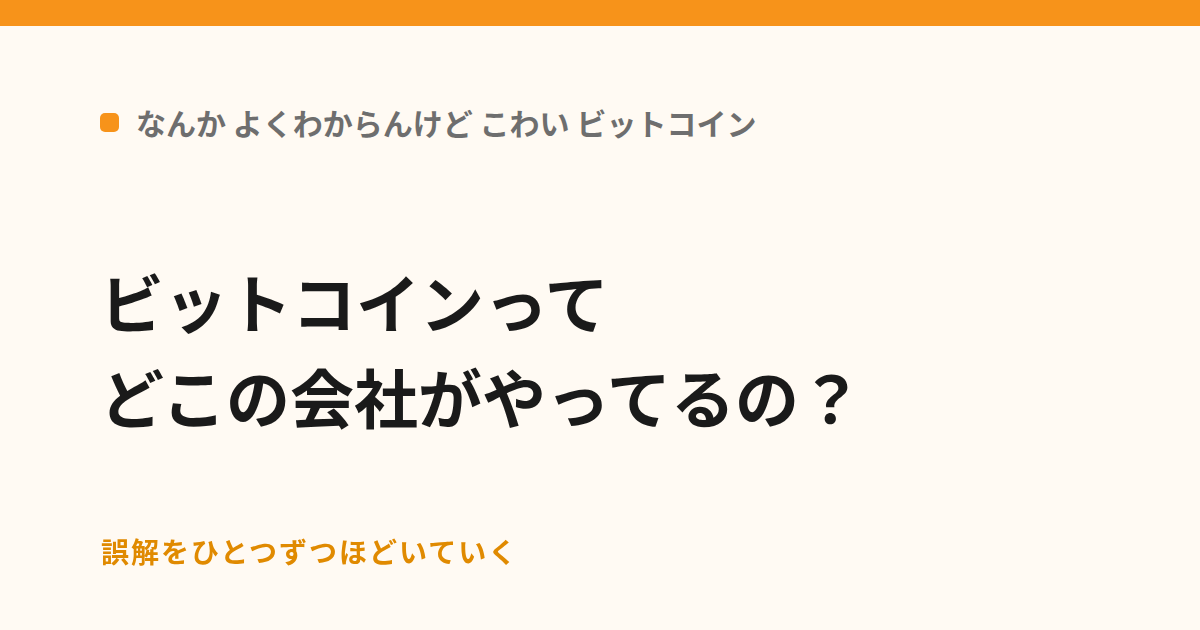
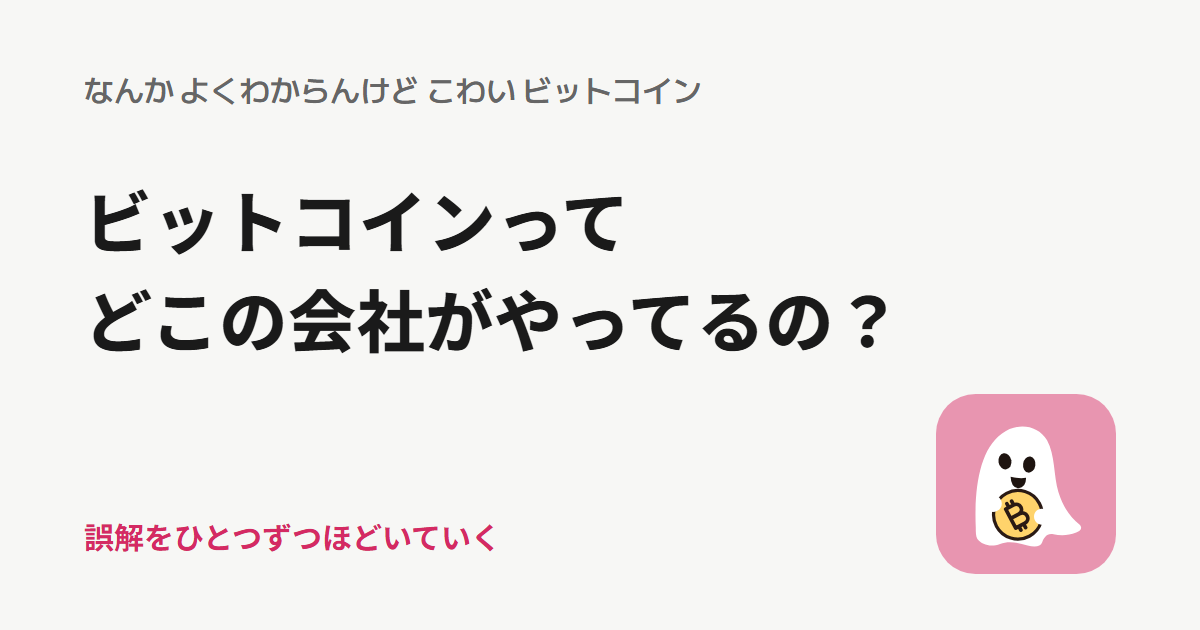
サイトアイコン・ファビコン・OGP をおばけのデザインに刷新
- ₿ コインを抱えるおばけのアイコンを作り、favicon.svg / favicon.ico / PWA / apple-touch-icon を作り直す
- トップと各話の OGP 画像を新しい配色とアイコンで作り直す
- 画像をまとめて生成する scripts/generate-images.js（npm run images）を追加
- og:locale、og:image の寸法・alt、twitter:image を追加

diff --git a/scripts/generate-images.js b/scripts/generate-images.js
@@ -1,0 +1,211 @@
+// サイトアイコン・ファビコン・PWA アイコン・OGP 画像をまとめて生成する。
+// デザインを変えたときだけ手動で実行し、生成物をコミットする（ビルドには含めない）。
+//   node scripts/generate-images.js
+// OGP の本文は端末にインストールされた Noto Sans JP で描くので、事前に入れておくこと。
+import { chromium } from 'playwright';
+import { mkdir, readFile, writeFile } from 'node:fs/promises';
+import path from 'node:path';
+import { fileURLToPath } from 'node:url';
+import { HOME, LAYERS, SITE_TITLE } from '../src/lib/site.js';
+
+const ROOT = path.resolve(path.dirname(fileURLToPath(import.meta.url)), '..');
+const STATIC = path.join(ROOT, 'static');
+
+const COLORS = {
+  tile: '#e895b0',
+  ghost: '#fff',
+  face: '#1e1410',
+  coin: '#ffd36b',
+  coinInk: '#2a1a14',
+  bg: '#f7f7f5',
+  ink: '#1a1a1a',
+  sub: '#666',
+  primary: '#fe3e7e',
+  accentText: '#d42a63'
+};
+
+const GHOST_BODY =
+  'M22 78C21 55 24 30 38 20 47 13 60 14 66 24 71 33 70 46 73 56 76 66 81 72 86 76 88 78 87 80 84 81 79 83 74 83 70 82 66 81 64 84 63 87 62 90 58 90 54 89 48 87 42 86 37 88 32 90 26 89 23 85 22 83 22 81 22 78Z';
+const HAND_LEFT = 'M30.5 63.5C34 61 38.5 62.5 39 66.5 39.5 70.5 35.5 73 32 72 28.5 71 27.5 66 30.5 63.5Z';
+const HAND_RIGHT = 'M65.5 63.5C62 61 57.5 62.5 57 66.5 56.5 70.5 60.5 73 64 72 67.5 71 68.5 66 65.5 63.5Z';
+// ₿ をフォントに頼らず線で描く（コインの中心を原点にした座標）
+const BITCOIN_SIGN =
+  'M-4.6-6.6V6.6M-4.6-6.6H1A3.25 3.25 0 0 1 1 -.1H-4.6M-4.6-.1H1.8A3.35 3.35 0 0 1 1.8 6.6H-4.6M-2.4-9.2V-6.6M.9-9.2V-6.6M-2.4 6.6V9.2M.9 6.6V9.2';
+
+// おばけ本体（100×100 の座標）
+function ghost({ simple = false } = {}) {
+  if (simple) {
+    // 16px 用：₿ と手と口を省き、目とコインを大きくする
+    return `<g transform="translate(1 2)">
+  <path d="${GHOST_BODY}" fill="${COLORS.ghost}"/>
+  <ellipse cx="40" cy="37" rx="5.5" ry="6.5" fill="${COLORS.face}"/>
+  <ellipse cx="55" cy="39" rx="5.5" ry="6.5" fill="${COLORS.face}"/>
+  <circle cx="48" cy="70" r="16" fill="${COLORS.coin}" stroke="${COLORS.coinInk}" stroke-width="3"/>
+</g>`;
+  }
+  return `<g transform="translate(1 2)">
+  <path d="${GHOST_BODY}" fill="${COLORS.ghost}"/>
+  <ellipse cx="40" cy="37" rx="4" ry="5" transform="rotate(-10 40 37)" fill="${COLORS.face}"/>
+  <ellipse cx="55" cy="39" rx="3.8" ry="5" transform="rotate(8 55 39)" fill="${COLORS.face}"/>
+  <path d="M43.5 46.5Q48.5 47.8 53 47.2 53.2 53 48.3 53.6 43.8 53.3 43.5 46.5Z" fill="${COLORS.face}"/>
+  <g transform="translate(48 70) rotate(-28)">
+    <circle r="15" fill="${COLORS.coin}" stroke="${COLORS.coinInk}" stroke-width="2"/>
+    <path d="${BITCOIN_SIGN}" fill="none" stroke="${COLORS.coinInk}" stroke-width="2.3" stroke-linecap="round" stroke-linejoin="round" transform="translate(-.4 0)"/>
+  </g>
+  <path d="${HAND_LEFT}" fill="${COLORS.ghost}" transform="translate(-1 -4)"/>
+  <path d="${HAND_RIGHT}" fill="${COLORS.ghost}" transform="translate(1 4)"/>
+</g>`;
+}
+
+// おばけの見た目の中心（裾の流れを除いた胴体寄り）
+const GHOST_CENTER = [54, 53];
+
+// rounded: 角丸タイル（透過）／ scale: タイルに対するおばけの大きさ
+function iconSvg({ rounded = true, scale = 0.9, simple = false } = {}) {
+  const bg = rounded
+    ? `<rect width="100" height="100" rx="22" fill="${COLORS.tile}"/>`
+    : `<rect width="100" height="100" fill="${COLORS.tile}"/>`;
+  const [cx, cy] = GHOST_CENTER;
+  const body = `<g transform="translate(50 50) scale(${scale}) translate(${-cx} ${-cy})">${ghost({ simple })}</g>`;
+  return `<svg xmlns="http://www.w3.org/2000/svg" viewBox="0 0 100 100">${bg}${body}</svg>`;
+}
+
+function escapeHtml(text) {
+  return text.replace(/[&<>"]/g, (c) => ({ '&': '&amp;', '<': '&lt;', '>': '&gt;', '"': '&quot;' })[c]);
+}
+
+async function renderPng(page, html, width, height, { transparent = false } = {}) {
+  await page.setViewportSize({ width, height });
+  await page.setContent(
+    `<!doctype html><html><head><meta charset="utf-8"><style>
+      html,body{margin:0;width:${width}px;height:${height}px;overflow:hidden;background:transparent}
+      body>svg{display:block;width:${width}px;height:${height}px}
+    </style></head><body>${html}</body></html>`,
+    { waitUntil: 'load' }
+  );
+  await page.evaluate(() => document.fonts.ready);
+  return page.screenshot({ type: 'png', omitBackground: transparent, clip: { x: 0, y: 0, width, height } });
+}
+
+// PNG をそのまま埋め込む形式の ICO を組み立てる
+function buildIco(images) {
+  const header = Buffer.alloc(6);
+  header.writeUInt16LE(0, 0);
+  header.writeUInt16LE(1, 2);
+  header.writeUInt16LE(images.length, 4);
+  const entries = [];
+  let offset = 6 + images.length * 16;
+  for (const { size, data } of images) {
+    const entry = Buffer.alloc(16);
+    entry.writeUInt8(size >= 256 ? 0 : size, 0);
+    entry.writeUInt8(size >= 256 ? 0 : size, 1);
+    entry.writeUInt8(0, 2);
+    entry.writeUInt8(0, 3);
+    entry.writeUInt16LE(1, 4);
+    entry.writeUInt16LE(32, 6);
+    entry.writeUInt32LE(data.length, 8);
+    entry.writeUInt32LE(offset, 12);
+    offset += data.length;
+    entries.push(entry);
+  }
+  return Buffer.concat([header, ...entries, ...images.map((i) => i.data)]);
+}
+
+async function ogpHtml(body, extraStyle) {
+  const font = await readFile(path.join(STATIC, 'fonts', 'm-plus-1-code-title.woff2'));
+  return `<style>
+    @font-face{font-family:"M PLUS 1 Code";src:url(data:font/woff2;base64,${font.toString('base64')}) format("woff2");font-weight:600}
+    .ogp{box-sizing:border-box;width:1200px;height:630px;background:${COLORS.bg};color:${COLORS.ink};
+      font-family:"Noto Sans JP",sans-serif;position:relative;overflow:hidden}
+    .code{font-family:"M PLUS 1 Code","Noto Sans JP",sans-serif;font-weight:600}
+    .tile svg{display:block;width:100%;height:100%}
+    ${extraStyle}
+  </style><div class="ogp">${body}</div>`;
+}
+
+async function renderOgp(page, html) {
+  await page.setViewportSize({ width: 1200, height: 630 });
+  await page.setContent(`<!doctype html><html><head><meta charset="utf-8"><style>html,body{margin:0}</style></head><body>${html}</body></html>`, {
+    waitUntil: 'load'
+  });
+  await page.evaluate(() => document.fonts.ready);
+  // 見出しが3行・幅に収まるまで文字を小さくする
+  await page.evaluate(() => {
+    const h = document.querySelector('.fit');
+    if (!h) return;
+    let size = parseFloat(getComputedStyle(h).fontSize);
+    const maxHeight = parseFloat(h.dataset.maxHeight);
+    while (size > 36 && (h.scrollWidth > h.clientWidth || h.scrollHeight > maxHeight)) {
+      size -= 2;
+      h.style.fontSize = size + 'px';
+    }
+  });
+  return page.screenshot({ type: 'png', clip: { x: 0, y: 0, width: 1200, height: 630 } });
+}
+
+async function homeOgp() {
+  const [l1, l2, l3, l4] = ['なんか', 'よくわからんけど', 'こわい', 'ビットコイン'];
+  return ogpHtml(
+    `<div class="text">
+      <p class="title code"><span>${l1}</span><span>${l2}</span><span class="hl">${l3}</span><span>${l4}</span></p>
+      <p class="lead">ニュースで見たイメージと、ほんとの姿。</p>
+    </div>
+    <div class="tile">${iconSvg()}</div>`,
+    `.text{position:absolute;left:84px;top:0;bottom:0;display:flex;flex-direction:column;justify-content:center}
+     .title{margin:0;font-size:68px;line-height:1.28;letter-spacing:.02em}
+     .title span{display:block;white-space:nowrap}
+     .hl{color:${COLORS.primary}}
+     .lead{margin:30px 0 0;font-size:28px;font-weight:500;color:${COLORS.sub}}
+     .tile{position:absolute;right:84px;top:125px;width:380px;height:380px}`
+  );
+}
+
+async function articleOgp(heading) {
+  return ogpHtml(
+    `<p class="brand code">${escapeHtml(SITE_TITLE)}</p>
+    <h1 class="fit" data-max-height="210">${heading}</h1>
+    <p class="foot">誤解をひとつずつほどいていく</p>
+    <div class="tile">${iconSvg()}</div>`,
+    `.brand{position:absolute;left:84px;top:72px;margin:0;font-size:30px;color:${COLORS.sub};word-spacing:-.3em}
+     h1{position:absolute;left:84px;right:84px;top:170px;margin:0;font-size:68px;font-weight:800;line-height:1.45;letter-spacing:.01em;white-space:nowrap}
+     .foot{position:absolute;left:84px;bottom:72px;margin:0;font-size:30px;font-weight:700;color:${COLORS.accentText}}
+     .tile{position:absolute;right:84px;bottom:56px;width:180px;height:180px}`
+  );
+}
+
+const browser = await chromium.launch();
+try {
+  const page = await browser.newPage({ deviceScaleFactor: 1 });
+
+  // ファビコン（SVG）と PWA・ホーム画面用アイコン
+  await writeFile(path.join(STATIC, 'favicon.svg'), iconSvg() + '\n');
+  await mkdir(path.join(STATIC, 'icons'), { recursive: true });
+  const icons = [
+    ['icons/icon-192.png', 192, { rounded: true }, true],
+    ['icons/icon-512.png', 512, { rounded: true }, true],
+    // maskable は端末側で切り抜かれるので全面塗りにし、中央 80% の安全域に収める
+    ['icons/icon-maskable-512.png', 512, { rounded: false, scale: 0.76 }, false],
+    // iOS が角を丸めるので全面塗り
+    ['icons/apple-touch-icon.png', 180, { rounded: false, scale: 0.84 }, false]
+  ];
+  for (const [rel, size, options, transparent] of icons) {
+    await writeFile(path.join(STATIC, rel), await renderPng(page, iconSvg(options), size, size, { transparent }));
+  }
+  const ico = [];
+  for (const [size, simple] of [[16, true], [32, false], [48, false]]) {
+    ico.push({ size, data: await renderPng(page, iconSvg({ simple }), size, size, { transparent: true }) });
+  }
+  await writeFile(path.join(STATIC, 'favicon.ico'), buildIco(ico));
+
+  // OGP
+  await writeFile(path.join(STATIC, 'ogp.png'), await renderOgp(page, await homeOgp()));
+  for (const layer of LAYERS) {
+    for (const article of layer.articles) {
+      await mkdir(path.join(STATIC, article.slug), { recursive: true });
+      await writeFile(path.join(STATIC, article.slug, 'ogp.png'), await renderOgp(page, await articleOgp(article.heading)));
+    }
+  }
+  console.log(`generated icons and ${1 + LAYERS.flatMap((l) => l.articles).length} OGP images (${HOME.title})`);
+} finally {
+  await browser.close();
+}

diff --git a/src/lib/PageHead.svelte b/src/lib/PageHead.svelte
@@ -15,9 +15,16 @@
     <meta property="og:title" content={title} />
     <meta property="og:description" content={description} />
     <meta property="og:url" content={url} />
+    <meta property="og:locale" content="ja_JP" />
     <meta property="og:image" content={url + 'ogp.png'} />
+    <meta property="og:image:type" content="image/png" />
+    <meta property="og:image:width" content="1200" />
+    <meta property="og:image:height" content="630" />
+    <meta property="og:image:alt" content={title} />
     <meta name="twitter:card" content="summary_large_image" />
     <meta name="twitter:title" content={title} />
     <meta name="twitter:description" content={description} />
+    <meta name="twitter:image" content={url + 'ogp.png'} />
+    <meta name="twitter:image:alt" content={title} />
   {/if}
 </svelte:head>

diff --git a/scripts/build-service-worker.js b/scripts/build-service-worker.js
@@ -14,7 +14,7 @@ const pages = ['', ...ARTICLES.map(({ slug }) => slug + '/'), '404.html'];
 const fonts = files.filter((file) => file.startsWith('fonts/') && file.endsWith('.woff2'));
 const assets = files.filter((file) =>
   file.startsWith('scripts/') || file.startsWith('styles/') || file.startsWith('icons/') ||
-  ['i18n.js', 'livedata.js', 'favicon.svg', 'ceo/news-telop.jpg'].includes(file)
+  ['i18n.js', 'livedata.js', 'favicon.svg', 'favicon.ico', 'ceo/news-telop.jpg'].includes(file)
 );
 const hash = (bytes) => createHash('sha256').update(bytes).digest('hex').slice(0, 16);
 const assetUrls = new Map();

diff --git a/src/app.html b/src/app.html
@@ -59,6 +59,7 @@
     })();
   </script>
   <script src="%sveltekit.assets%/i18n.js"></script>
+  <link rel="icon" href="%sveltekit.assets%/favicon.ico" sizes="16x16 32x32 48x48">
   <link rel="icon" type="image/svg+xml" href="%sveltekit.assets%/favicon.svg">
   <link rel="manifest" href="%sveltekit.assets%/manifest.webmanifest">
   <link rel="apple-touch-icon" href="%sveltekit.assets%/icons/apple-touch-icon.png">
